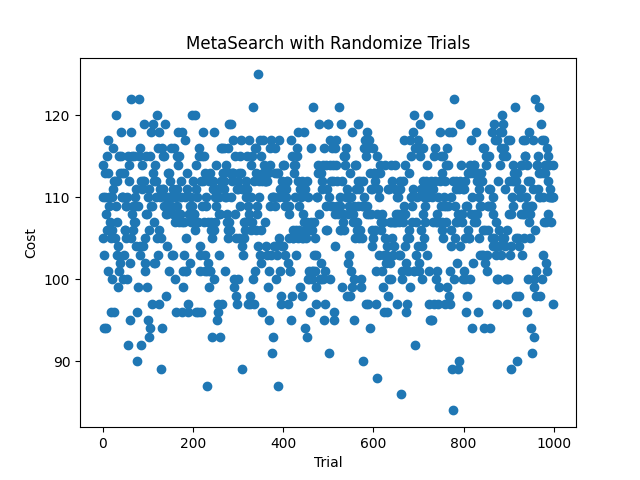
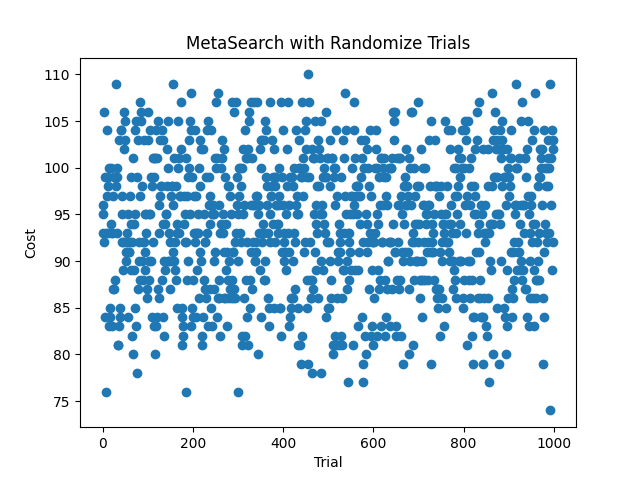
early removal strategies

diff --git a/meta_search.py b/meta_search.py
@@ -41,13 +41,20 @@ def get_prioritized_mem(k: np.ndarray):
 
 class MetaSearch:
 
-    def __init__(self, poly: SparsePoly, care_about_add: bool=False, disable_mem=False, disable_cache=False):
+    def __init__(self, poly: SparsePoly, care_about_add: bool=False, disable_mem=False, disable_cache=False, remove_early=0):
+        """
+        remove_early:
+        0 - never remove anything early (works best on small problems)
+        1 - sometimes remove based on whether a component might be reduced later (works slightly better/faster than 0 on big problems)
+        2 - always remove a component if possible (worst costs but slightly faster performance)
+        """
         self.poly = poly
         self.n = poly.n
     
         self.care_about_add = care_about_add
         self.disable_mem = disable_mem
         self.disable_cache = disable_cache
+        self.remove_early = remove_early
 
         self.mem_base = []
         self.mem = []
@@ -96,6 +103,23 @@ class MetaSearch:
                 heapq.heappush(self.mem, get_prioritized_mem(k))
 
 
+    def _check_divider(self, group: list, divider, sorted=False):
+        if len(group) == 0:
+            return False
+
+        if not sorted:
+            group.sort(reverse=True, key=lambda x: np.sum(x))
+        
+        for k in group:
+            if np.sum(k) <= np.sum(divider):
+                break
+            diff = k - divider
+            if np.min(diff) >= 0 and np.sum(diff) > 0:
+                return True
+        
+        return False
+
+
     def _clean(self, l: list, d: np.ndarray=None) -> list:
         if d is None:
             d = np.zeros(self.n, dtype=np.int32)
@@ -114,10 +138,23 @@ class MetaSearch:
                 k -= d
 
         # check all monomials to see if they are known
+        if self.remove_early:
+            l.sort(reverse=True, key=lambda x: np.sum(x))
         kept = []
         fence = False
         for k in l:
-            if tuple(k) in self.mem_set or sum(k) <= 1:
+            stopping_condition = np.sum(k) == 0
+
+            if not stopping_condition and (len(l) == 1 or self.remove_early == 2):
+                stopping_condition = tuple(k) in self.mem_set
+
+            elif not stopping_condition and self.remove_early == 1:
+                stopping_condition = (
+                    tuple(k) in self.mem_set and
+                    not self._check_divider(kept, k, sorted=True)
+                )
+
+            if stopping_condition:
                 # is known
                 if np.sum(k) >= 1: # and not test:
                     # this is not a scalar, so take into account coefficient
@@ -381,10 +418,10 @@ class MetaSearch:
 def main():
 
     # generate some big random polynomial
-    N = 10
+    N = 5
     scale = 3
     target = SparsePoly(N)
-    more = 1000
+    more = 10000
     while more > 0:
         k = np.round_(np.random.exponential(scale=scale, size=N)).astype(np.int32)
         target[k] = 1
@@ -402,17 +439,26 @@ def main():
 
     # get solution using our method
     engine = MetaSearch(target)
-
-    print("\n --> Greedy Cost:", engine.greedySearch())
-
     t_start = time.time_ns()
-    cost = engine.annealSearch(500, 1, 10, 400, verbose=False, save=True)
+    cost = engine.greedySearch()
+    print(" --> 0 Cost:", cost, "("+str(round((time.time_ns() - t_start)*1e-9, 3))+" s)")
 
-    print(" --> Annealing Cost:", cost, "("+str(round((time.time_ns() - t_start)*1e-9, 3))+" s)")
-    print("")
+    engine.remove_early = 1
+    t_start = time.time_ns()
+    cost = engine.greedySearch()
+    print(" --> 1 Cost:", cost, "("+str(round((time.time_ns() - t_start)*1e-9, 3))+" s)")
+
+    # engine.remove_early = 2
+    # t_start = time.time_ns()
+    # cost = engine.greedySearch()
+    # print(" --> 2 Cost:", cost, "("+str(round((time.time_ns() - t_start)*1e-9, 3))+" s)")
+
+    # t_start = time.time_ns()
+    # cost = engine.annealSearch(500, 1, 10, 400, verbose=False, save=True)
+    # print(" --> Annealing Cost:", cost, "("+str(round((time.time_ns() - t_start)*1e-9, 3))+" s)")
 
     # the most basic representation just multiplies and adds every monomial one by one
-    print("Naive Estimate:", sum([1+np.sum(np.maximum(0, np.array(k)-1)) for k in target.dict.keys()])-1)
+    print("\nNaive Estimate:", sum([1+np.sum(np.maximum(0, np.array(k)-1)) for k in target.dict.keys()])-1)
 
     # show the benchmark
     print("Horner Computation:", horner.num_ops)

diff --git a/basic_horner.py b/basic_horner.py
@@ -6,6 +6,7 @@ from meta_search import MetaSearch
 
 import numpy as np
 from itertools import permutations
+import math
 
 
 def basic_horners(poly: SparsePoly, order):
@@ -23,16 +24,15 @@ def basic_horners(poly: SparsePoly, order):
 
     cost = 0
 
-    def clean(s: list, d: int):
+    def clean(s: list, d: int=-1):
         nonlocal cost
         if len(s) == 0:
             return []
 
-        cost += 1 # this represents a multiplication
-        for k in range(len(s)):
-            s[k][d] -= 1
-        # if len(s) == 1 and sum(s[0]) == 0:
-        #     cost -= 1
+        if d >= 0:
+            cost += 1 # this represents a multiplication
+            for k in range(len(s)):
+                s[k][d] -= 1
 
         # check all monomials to see if they are known
         kept = []
@@ -41,6 +41,8 @@ def basic_horners(poly: SparsePoly, order):
                 kept.append(k)
 
         return kept
+
+    clean(problem)
 
     on_groups = [problem]
     off_groups = []
@@ -73,8 +75,8 @@ def basic_horners(poly: SparsePoly, order):
 
 
 def main():
-    N = 3
-    SCALE = 5
+    N = 4
+    SCALE = 3
     ELEMS = 10
 
     target = SparsePoly(N)
@@ -83,16 +85,20 @@ def main():
         target[k] = 1
 
     orders = list(permutations(range(N)))
+    if len(orders) < math.factorial(N):
+        raise RuntimeError("Orders did not permutate correctly!")
+
     print(" --- Regular --- ")
     for ord in orders:
-        print(tuple(ord), "-->", basic_horners(target, ord))
+        horn = basic_horners(target, ord)
+        print(tuple(ord), "-->", horn)
 
     # print("\n --- Improved --- ")
     # cost = DivSearch(target, verbose=False, test=True)
     # print(cost)
 
     print("\n --- Meta --- ")
-    engine = MetaSearch(target, disable_mem=True)
+    engine = MetaSearch(target, disable_mem=True, remove_early=0)
     cost = engine.greedySearch()
     print("greedy -->", cost)
     cost = engine.annealSearch(5000, 0.25, 10, 4000, save=True)
